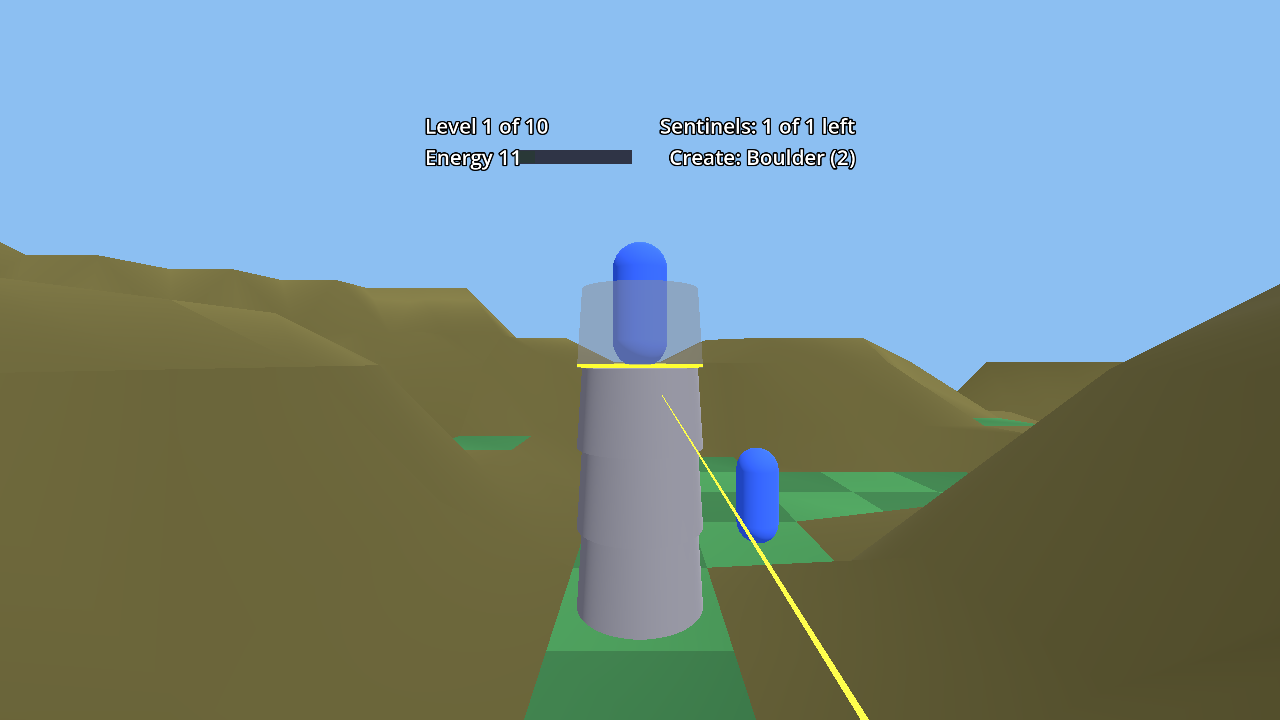
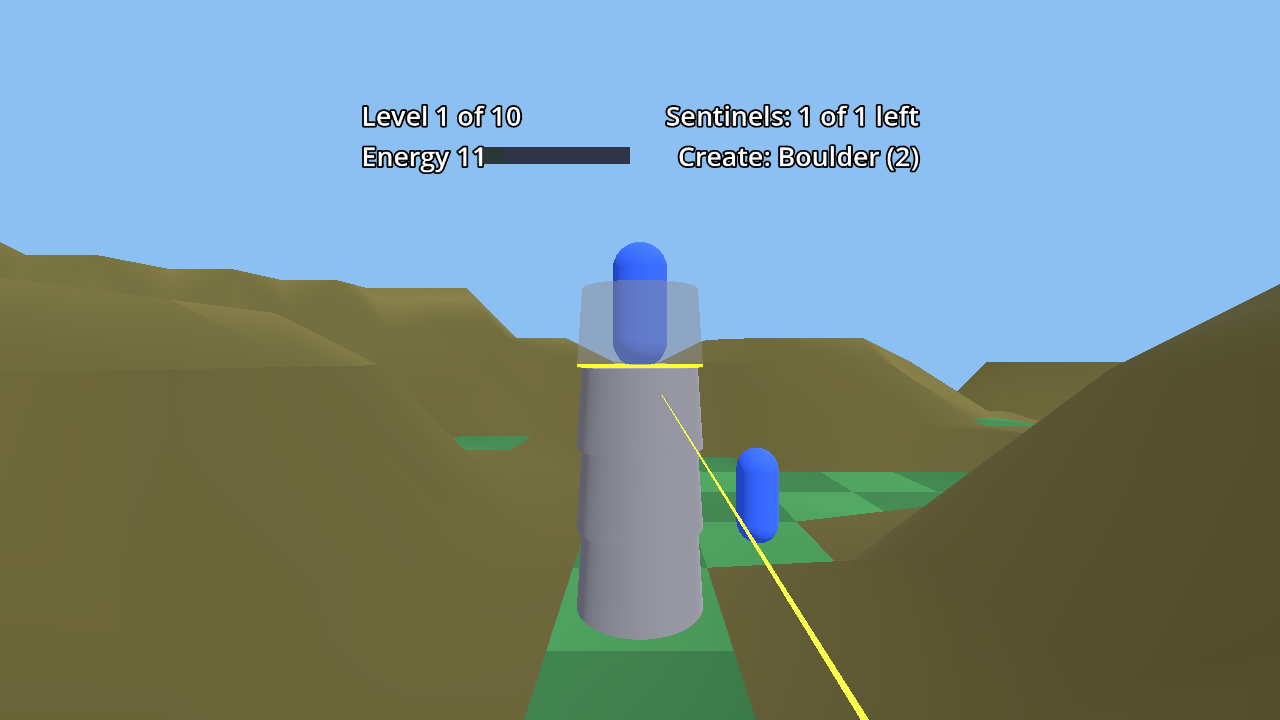
HUD 2.5 m away and about 1.3x larger on screen (board feedback); AC-28/AC-42 updated, screenshots retaken

Changed region(s): [[0.2812, 0.1222, 0.7188, 0.2444]]

diff --git a/docs/SPEC.md b/docs/SPEC.md
@@ -339,8 +339,9 @@ brings the user back here.
 ## 8. HUD (viewport-anchored, at the top)
 
 The HUD is a child of the XR camera (head-locked), never of a controller. It is
-a strip at the **top** of the view: centred 1.2 m in front of the eyes and 0.45 m
-above the centre of gaze (about 20 degrees up), unshaded and drawn on top, so the
+a strip at the **top** of the view: centred 2.5 m in front of the eyes and 0.9 m
+above the centre of gaze (about 20 degrees up), scaled so it looks about 1.3x larger than
+the first version (which sat 1.2 m away and was too close to read), unshaded and drawn on top, so the
 middle of the view stays clear. Contents, always visible: Energy (number and
 bar), Level ("Level 3 of 10"), **Sentinels left** counter ("Sentinels: 2 of 3
 left"), the create mode ("Create: Synthoid (3)" / "Create: Boulder (2)"), the
@@ -487,8 +488,9 @@ headless; "Scene" = instantiate scene headless with `Main.advance`.
 
 - AC-27 (Scene) `Hud` is a descendant of `XRCamera3D` and not of either controller;
   its local transform is constant while the camera moves.
-- AC-28 (Scene) `Hud` local position is (0, +0.45 +- 0.05, -1.2 +- 0.1), i.e. above
-  the gaze centre, not below or at it.
+- AC-28 (Scene) `Hud` local position is (0, +0.9 +- 0.05, -2.5 +- 0.1), i.e. above
+  the gaze centre, not below or at it, and its on-screen size (scale / distance) is
+  at least 1.25 / 1.2 (board finding: larger and further).
 - AC-29 (Scene) HUD text shows energy as a number that updates after create
   and absorb.
 - AC-30 (Scene) `HudSentinels` reads "Sentinels: k of N left" and decrements
@@ -532,8 +534,9 @@ headless; "Scene" = instantiate scene headless with `Main.advance`.
 *HUD*
 
 - AC-42 (Scene) `HudEnergy`, `HudLevel`, `HudSentinels`, `HudMode`, `HudWatched`
-  and `HudMessage` each have camera-local y between +0.25 and +0.65 m (at
-  z = -1.2) and |x| <= 0.8 m: all above the gaze line and inside the view.
+  and `HudMessage` each have camera-local y between +0.5 and +1.5 m (at
+  z = -2.5), |x| <= 1.6 m, and between 5 and 35 degrees up and under 35 degrees
+  to the side: all above the gaze line and inside the view.
 - AC-52 (Scene) `HudMode` reads "Create: Synthoid (3)" at level start and after
   a retry, and "Create: Boulder (2)" after one `press("grip_click")`.
 

diff --git a/README.md b/README.md
@@ -23,7 +23,7 @@ that shows where they look) stand on the highest ground; green **trees** (3 m
 tall: a 1.2 m trunk under a 1.8 m leafy canopy) are scattered about. There are ten levels; rules and level generation are
 in `docs/SPEC.md` (sections 3-4).
 
-**HUD.** A head-locked panel 1.2 m in front of you, above the centre of
+**HUD.** A head-locked panel 2.5 m in front of you, large enough to read, above the centre of
 gaze so it never covers the ground you are looking at: **Energy** (number and
 bar), **Level n of 10**, **Sentinels: k of N left**, the create mode
 (**Create: Synthoid (3)** or **Create: Boulder (2)**), a red border and
